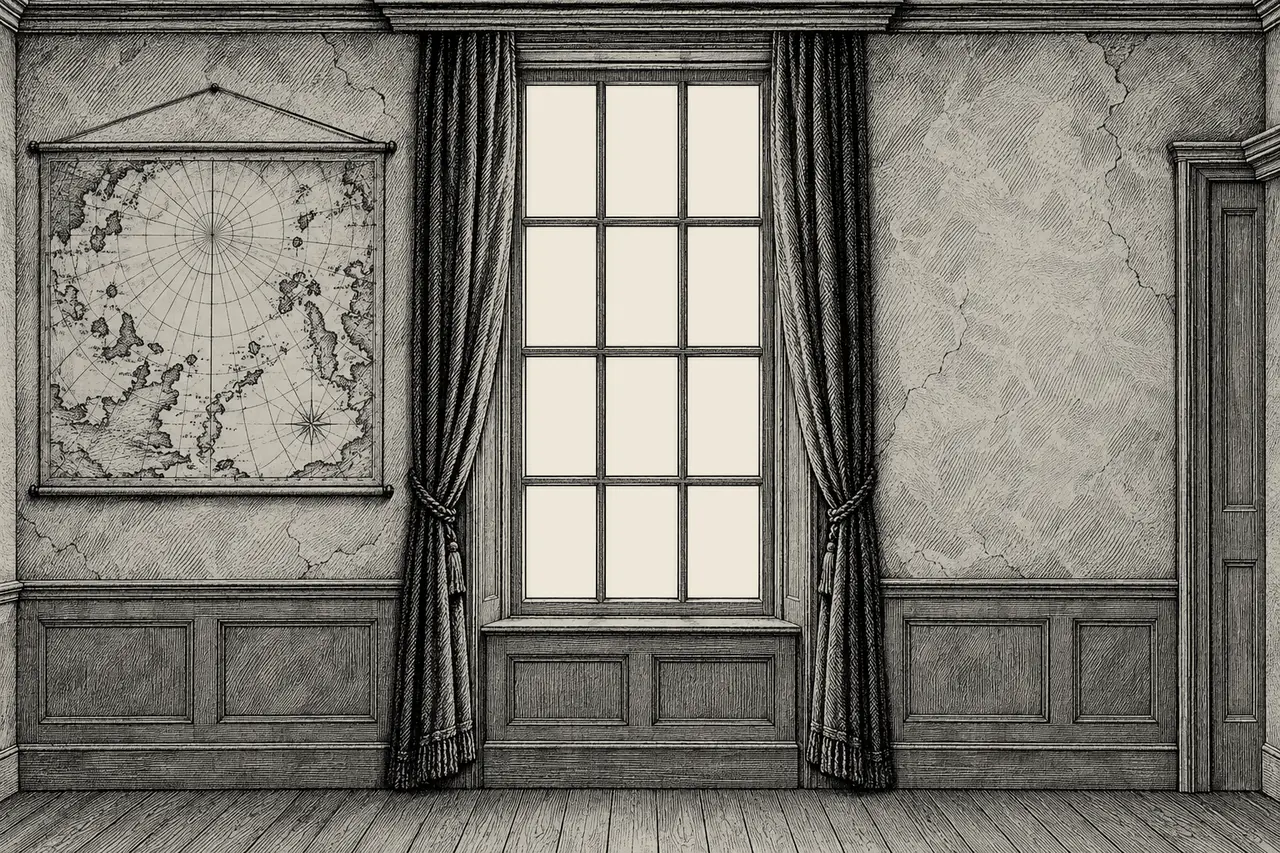
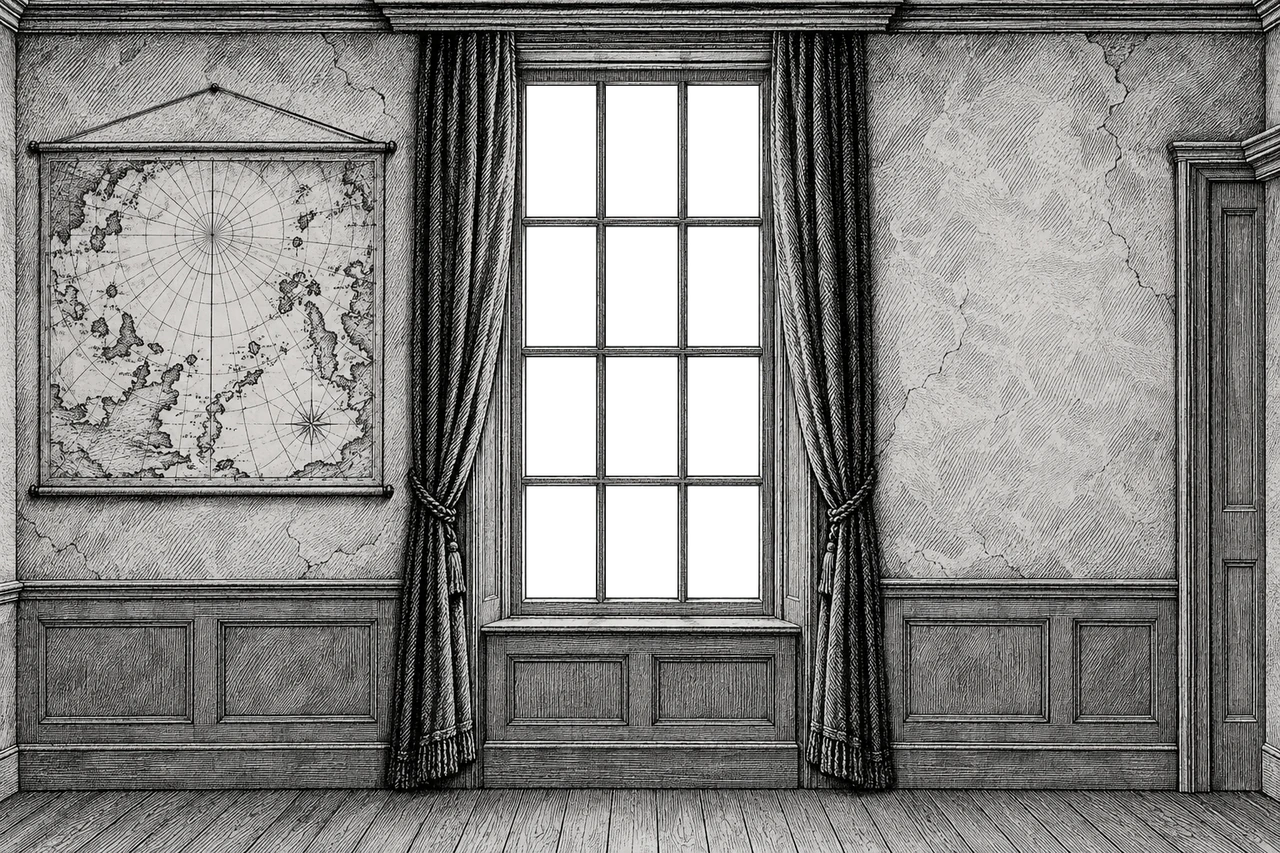
Letter 1: Walton looks out of the drawn window, not at the wall
The back wall drawing's panes are cut out (tools/window_cut.py) so the street shows
through them; the street view is cropped to drop its own frame and sill; his
look-out mark and the camera move to the window.

Claude-Session: https://claude.ai/code/session_015J9f2YVWE3eqxvLQrkHQmj

diff --git a/src/scenes/letter1.js b/src/scenes/letter1.js
@@ -45,7 +45,7 @@ export const letter1 = {
     // Where he stands: writing behind the desk; beside it; at the window, looking out.
     const SEAT = { x: DESK.x, z: DESK.z - 0.25 };
     const BY_DESK = { x: DESK.x + 0.95, z: DESK.z - 0.2 };
-    const AT_WINDOW = { x: 1.6, z: ROOM.back + 0.5 }; // to the right of the panes, so the street shows past him
+    const AT_WINDOW = { x: 0.3, z: ROOM.back + 0.55 }; // before the window (WINDOW), a little right of centre, so the street shows past him
 
     const writing = (t) => t < T.walk - 1.2 || (t > T.refl + 5.2 && t < T.fav - 1.0) || t > T.depart + 5.2;
     // The AI drawing of him writing has its own chair (and no desk: the room's desk stays put),
@@ -82,16 +82,16 @@ export const letter1 = {
       ...openingKeys(T.title, T.you, { pos: [0.0, 1.85, 1.2], look: [-0.28, 1.4, -4] }),
       { t: T.you + 2, dur: 5, pos: [-0.7, 1.55, -0.4], look: [-1.33, 1.15, -3.0] },        // Walton writing
       { t: T.walk - 1, dur: 4, pos: [0.14, 1.7, 0.4], look: [0.42, 1.3, -3.6] },             // he rises and crosses the room
-      { t: T.walk + 5, dur: 4, pos: [0.63, 1.75, -1.6], look: [1.26, 1.9, -6] },             // over his shoulder, the street
-      { t: T.needle - 4, dur: 10, pos: [0.98, 1.65, -1.9], look: [1.19, 1.8, -6] },
-      { t: T.needle + 30, dur: 8, pos: [2.1, 1.6, -1.8], look: [1.05, 1.5, -3.8] },         // beside him at the glass
+      { t: T.walk + 5, dur: 4, pos: [-0.3, 1.75, -1.4], look: [0.1, 1.9, -6] },             // over his shoulder, the street
+      { t: T.needle - 4, dur: 10, pos: [-0.1, 1.65, -1.8], look: [0.15, 1.8, -6] },
+      { t: T.needle + 30, dur: 8, pos: [1.2, 1.6, -1.9], look: [0.2, 1.5, -3.8] },         // beside him at the glass
       { t: T.refl, dur: 4, pos: [0.0, 1.85, 0.8], look: [-0.14, 1.3, -4] },                   // back to the desk
       { t: T.refl + 8, dur: 5, pos: [-0.91, 1.45, -0.9], look: [-1.36, 1.2, -3.1] },
       { t: T.visions, dur: 8, pos: [-1.33, 1.35, -1.4], look: [-1.61, 1.15, -3.0] },        // the candle
       { t: T.six, dur: 6, pos: [-0.28, 1.6, -0.2], look: [-1.26, 1.2, -3.0] },
       { t: T.margaret2, dur: 12, pos: [-0.98, 1.4, -1.2], look: [-1.33, 1.25, -3.1] },
-      { t: T.fav - 0.5, dur: 4, pos: [0.28, 1.7, 0.0], look: [0.63, 1.4, -3.8] },            // to the window again
-      { t: T.sledges - 2, dur: 3, pos: [0.63, 1.7, -1.5], look: [0.98, 1.1, -6.6] },          // a sledge in the street
+      { t: T.fav - 0.5, dur: 4, pos: [-0.1, 1.7, 0.0], look: [0.1, 1.4, -3.8] },            // to the window again
+      { t: T.sledges - 2, dur: 3, pos: [-0.2, 1.7, -1.5], look: [0.0, 1.1, -6.6] },          // a sledge in the street
       { t: T.depart, dur: 5, pos: [0.0, 1.8, 0.9], look: [-0.42, 1.3, -4] },
       { t: T.depart + 6, dur: 5, pos: [-0.77, 1.5, -0.6], look: [-1.33, 1.15, -3.0] },
       { t: T.farewell, dur: 12, ...STALLS },                // back out to the toy stage, as at the start

diff --git a/src/sets/lodging.js b/src/sets/lodging.js
@@ -9,7 +9,7 @@ import { canvas, texture, hatch, outline, fillPaper, grain, blob, rng, INK, PAPE
 // 3.4 m wall, the 3:2 picture hung 3.9 m high and sunk 0.5 m so its drawn floor meets the stage floor.
 export const ROOM = { w: 5.85, d: 6.4, h: 3.4, back: -4.2 };
 const DRAWN_H = 3.9, SINK = 0.5;
-export const WINDOW = { x0: 0.55, x1: 1.8, y0: 0.8, y1: 2.9 }; // in the back wall, metres
+export const WINDOW = { x0: -0.53, x1: 0.55, y0: 0.67, y1: 3.0 }; // in the back wall, metres: the drawn window's panes (cut out by tools/window_cut.py)
 export const DESK = { x: -1.35, z: -2.75 };
 
 const PXM = 120;
@@ -214,8 +214,8 @@ export function buildLodging(group, ai = {}) {
     const sw = paperFlat(pick(ai, n, () => sideWall(510 + s * 7, s > 0)), d, drawn(n) ? DRAWN_H : h, { edge: false });
     sw.rotation.y = -s * Math.PI / 2; sw.position.set(s * w / 2, drawn(n) ? -SINK : 0, back + d / 2); group.add(sw);
   }
-  const st = paperFlat(pick(ai, 'street', street), 9, 9 * 1400 / 2400, { edge: false, opaque: true });
-  st.position.set((WINDOW.x0 + WINDOW.x1) / 2, 0, back - 3.0); group.add(st); // the road just below the sill line
+  const st = paperFlat(pick(ai, 'street', street), 9, 9 * 755 / 1062, { edge: false, opaque: true }); // the AI view, cropped to 1062 x 755 (tools/window_cut.py)
+  st.position.set((WINDOW.x0 + WINDOW.x1) / 2, -0.6, back - 3.0); group.add(st); // the road just below the sill line
   const sledge = paperFlat(pick(ai, 'sledge', sledgeArt), 1.9, 1.9 * 420 / 900, { edge: false });
   sledge.position.set(-6, 0.5, back - 2.4); sledge.visible = false; group.add(sledge);
   // The AI desk and chair keep their drawn shape: the desk 1.15 m high to the top of its candle,

diff --git a/tools/window_cut.py b/tools/window_cut.py
@@ -1,0 +1,29 @@
+"""Cuts the window panes out of Letter 1's back wall drawing (sets/walton_petersburgh/wall_back),
+so the street (sets/walton_petersburgh/view) shows through them and Walton can look out.
+Run: python3 tools/window_cut.py (reads source/ai/..., writes public/art/ai/...)."""
+from PIL import Image, ImageDraw, ImageFilter
+
+src = Image.open("source/ai/sets/walton_petersburgh/wall_back.png").convert("RGB")
+W, H = src.size
+grey = src.convert("L")
+# The panes: light paper inside the window, each flood-filled from a point inside it.
+mask = Image.new("L", (W, H), 0)
+x0, x1, y0, y1 = int(W * 316 / 768), int(W * 455 / 768), int(H * 45 / 512), int(H * 360 / 512)
+for y in range(y0, y1):
+    for x in range(x0, x1):
+        if grey.getpixel((x, y)) > 200:
+            mask.putpixel((x, y), 255)
+mask = mask.filter(ImageFilter.MinFilter(3)).filter(ImageFilter.MaxFilter(3))  # drop specks
+alpha = Image.eval(mask, lambda v: 255 - v)
+out = src.convert("RGBA"); out.putalpha(alpha)
+out = out.resize((1280, 853), Image.LANCZOS)
+out.save("public/art/ai/sets/walton_petersburgh/wall_back.webp", quality=90, method=6)
+bb = mask.getbbox(); print("panes px", bb, "of", (W, H))
+
+# The street drawing came with its own window frame, curtains and sill; keep only the view
+# between the curtains and above the sill (its two glazing bars stay, behind the wall's own).
+v = Image.open("source/ai/sets/walton_petersburgh/view.png").convert("RGB")
+vw, vh = v.size
+v = v.crop((int(vw * 0.085), 0, int(vw * 0.915), int(vh * 0.885))).resize((1062, 755), Image.LANCZOS)
+v.save("public/art/ai/sets/walton_petersburgh/view.webp", quality=90, method=6)
+print("view", v.size)
